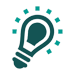
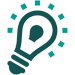
Test!

diff --git a/static/scss/components/_nav.scss b/static/scss/components/_nav.scss
@@ -1,36 +1,51 @@
 .left {
       font-family: $lato;
       margin-top: 4rem;
-     
+
       &-wrap {
         display: flex;
         align-items: center;
         justify-content: center;   
-        width: 9rem;        
-        height: 7rem;
+        width: 6.8rem;        
+        height: 5rem;
         font-size: 1.7rem;
         text-decoration: none;
         color:$green-color;
         text-decoration: none;
         
         @include response(xl) {
-            width: 10rem;        
+            width: 9rem;        
             font-size: 2rem;
-        }
-
-        .tips_icon {
-            width: 40px;
-            height: 40px;
-            background-repeat: no-repeat;
-            background-position: center center;
-            background-image: url(../images/tips_icon.png);
         }
         &:hover {
             color:rgb(255, 255, 255);
             background-color: rgba(8, 95, 99, 1);
             transition: .5s ease;
-        }  
+            font-weight: bold;
+        }
     }
+
+    .l-w {
+        padding-left:1rem;
+        width: 8.5rem;
+          &::after {
+              display: inline-block;
+              content: "";
+              width: 60px;
+              height: 60px;
+              margin-left: 5px;
+              vertical-align: middle;
+              background-repeat: no-repeat;
+              background-position: center; 
+              background-size: contain;
+              background-image: url(../images/tips_icon.png);
+          }
+          &:hover {
+            &::after {
+                background-image: url(../images/tips_icon_light.png);
+            }
+        }
+      }
 }
 
 .right {

diff --git a/static/css/index.css b/static/css/index.css
@@ -1049,26 +1049,37 @@ body {
     display: flex;
     align-items: center;
     justify-content: center;
-    width: 9rem;
-    height: 7rem;
+    width: 6.8rem;
+    height: 5rem;
     font-size: 1.7rem;
     text-decoration: none;
     color: #054144;
     text-decoration: none; }
     @media (min-width: 1200px) {
       .left-wrap {
-        width: 10rem;
+        width: 9rem;
         font-size: 2rem; } }
-    .left-wrap .tips_icon {
-      width: 40px;
-      height: 40px;
-      background-repeat: no-repeat;
-      background-position: center center;
-      background-image: url(../images/tips_icon.png); }
     .left-wrap:hover {
       color: white;
       background-color: #085f63;
-      transition: .5s ease; }
+      transition: .5s ease;
+      font-weight: bold; }
+  .left .l-w {
+    padding-left: 1rem;
+    width: 8.5rem; }
+    .left .l-w::after {
+      display: inline-block;
+      content: "";
+      width: 60px;
+      height: 60px;
+      margin-left: 5px;
+      vertical-align: middle;
+      background-repeat: no-repeat;
+      background-position: center;
+      background-size: contain;
+      background-image: url(../images/tips_icon.png); }
+    .left .l-w:hover::after {
+      background-image: url(../images/tips_icon_light.png); }
 
 .right {
   padding-top: 5.5rem; }

diff --git a/templates/base.html b/templates/base.html
@@ -27,7 +27,7 @@
                         <a class="text-decoration-none  left-wrap border-right" href="{{ url_for('trip')}}">TRIP</a>
                         <a class="text-decoration-none  left-wrap border-right" href="{{ url_for('work')}}">WORK</a>
                         <a class="text-decoration-none  left-wrap border-right " href="{{ url_for('life')}}">LIFE</a>
-                        <a class="text-decoration-none  left-wrap " href="{{ url_for('life')}}">TIPS <span class="tips_icon"></span></a>
+                        <a class="text-decoration-none  left-wrap l-w" href="{{ url_for('life')}}">TIPS</a>
                     </div>
                 </div>
                 <div class="col-3 mt-4">
